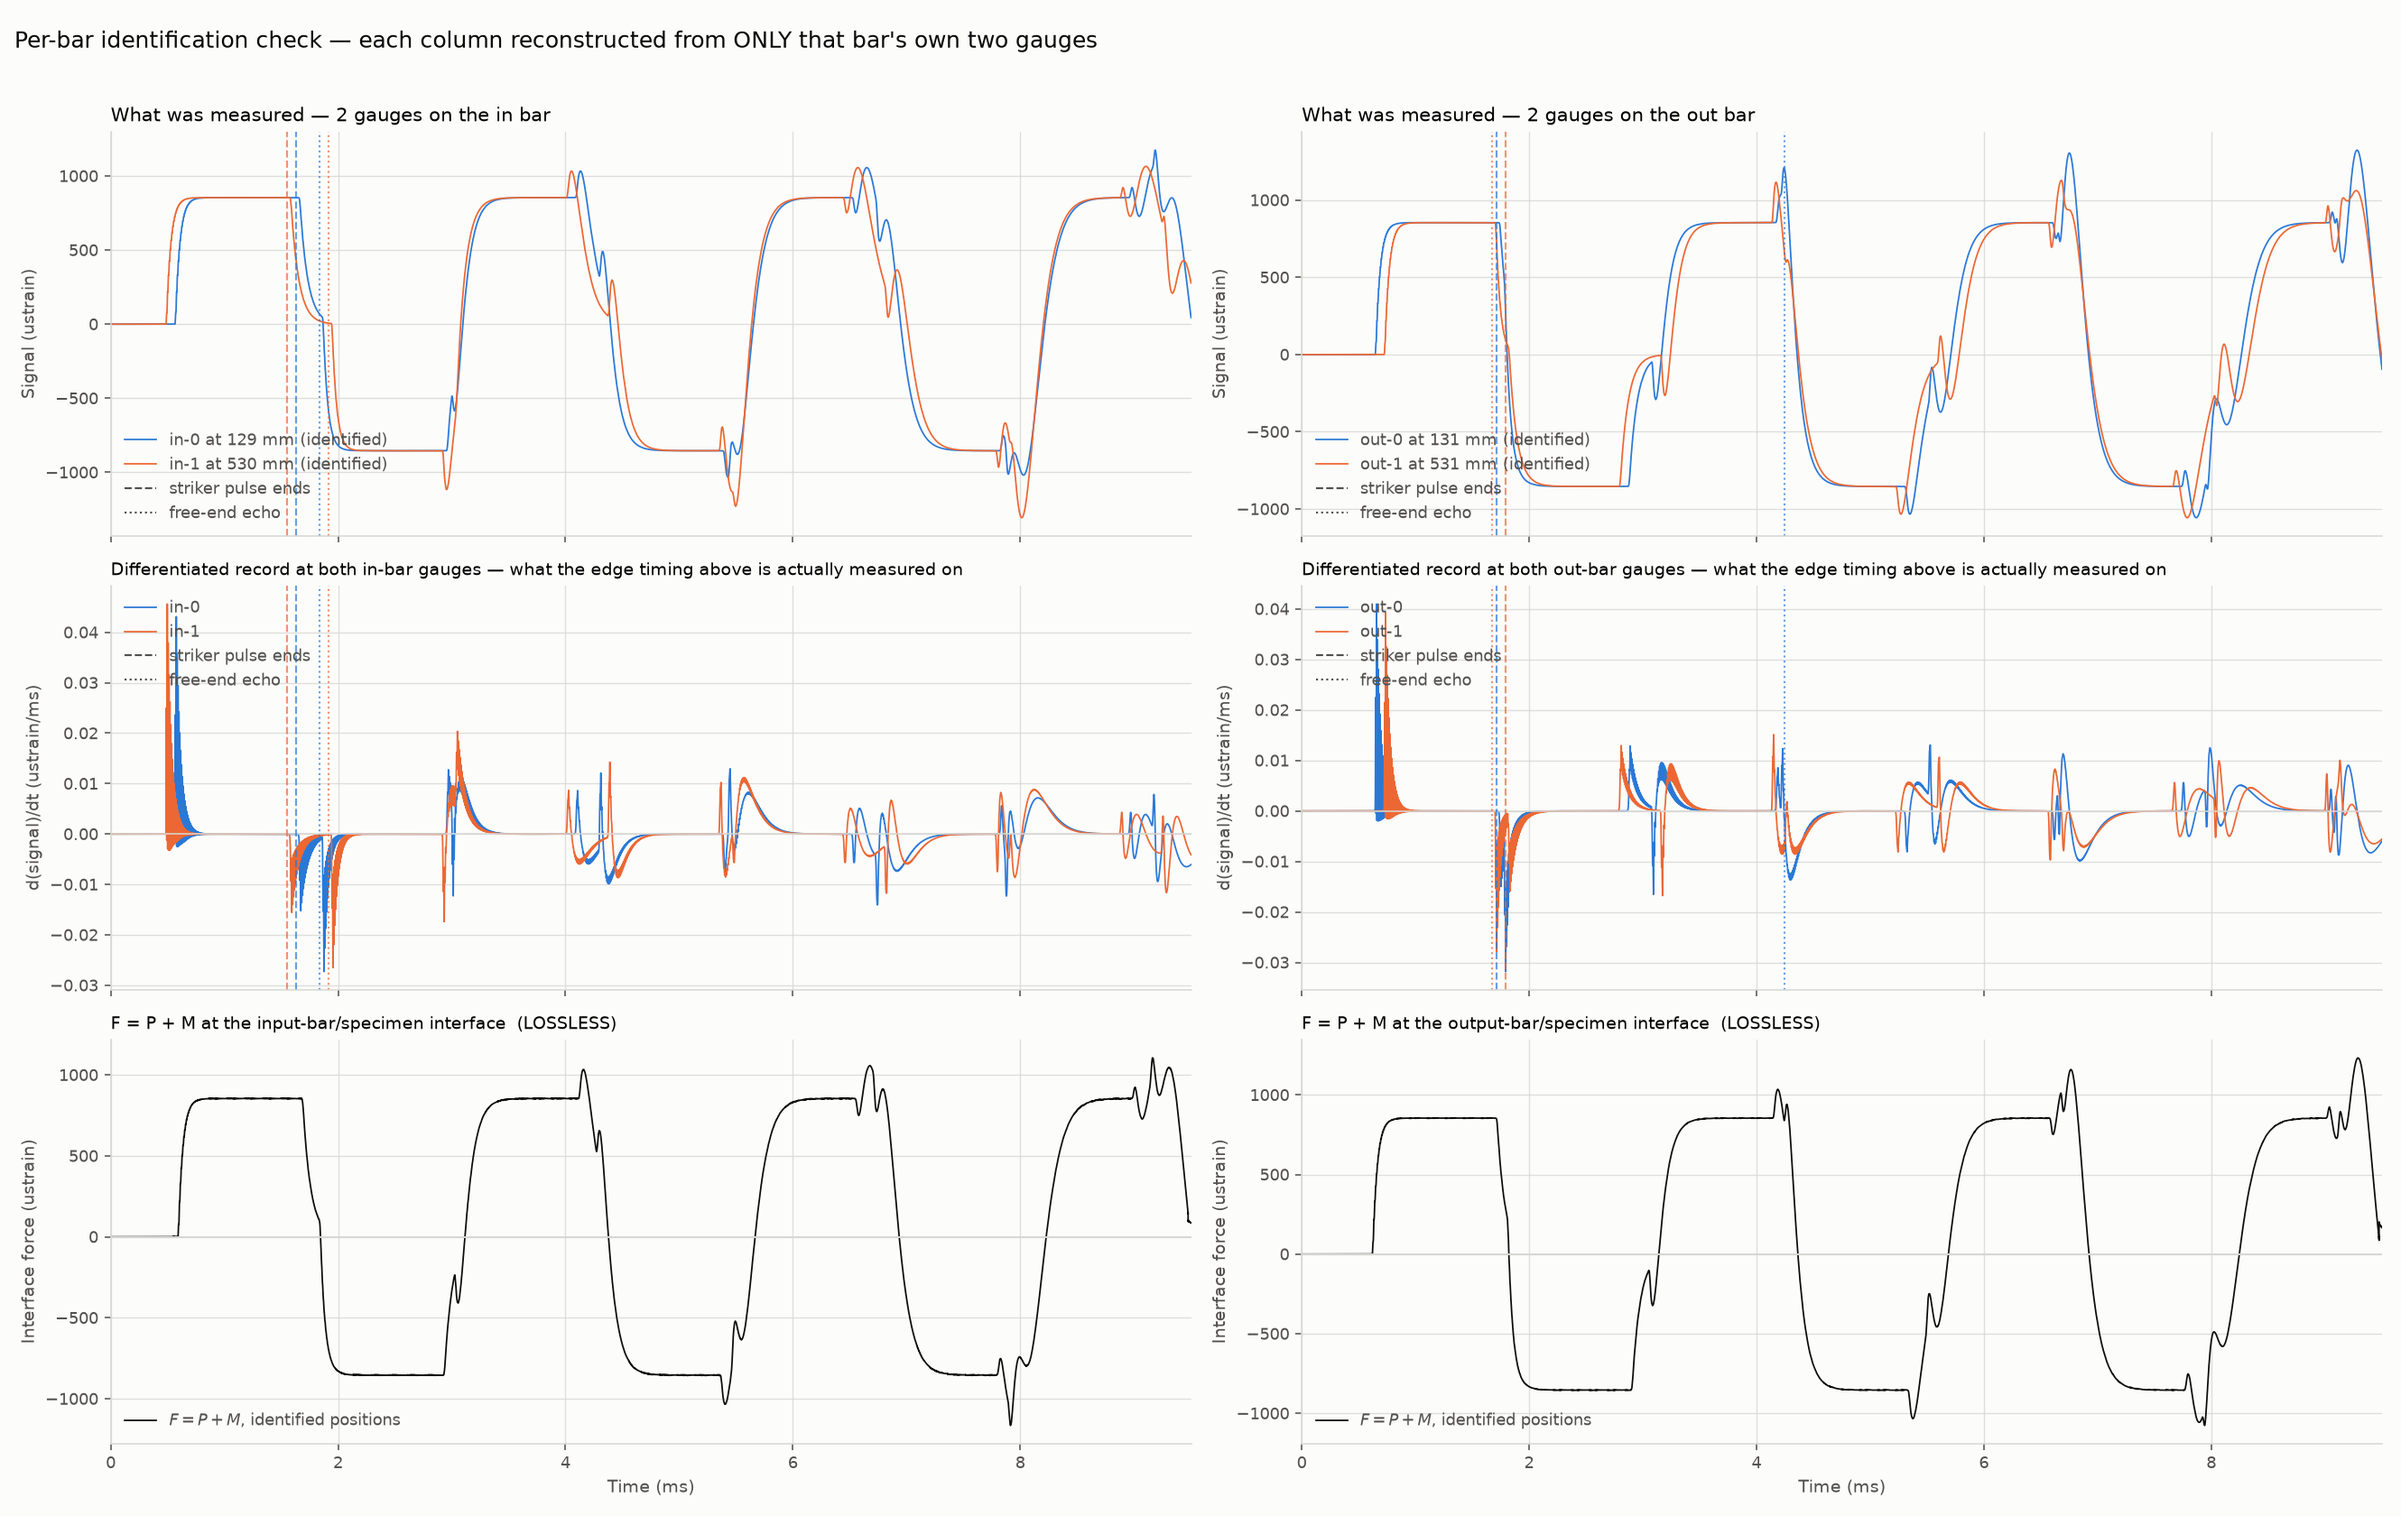
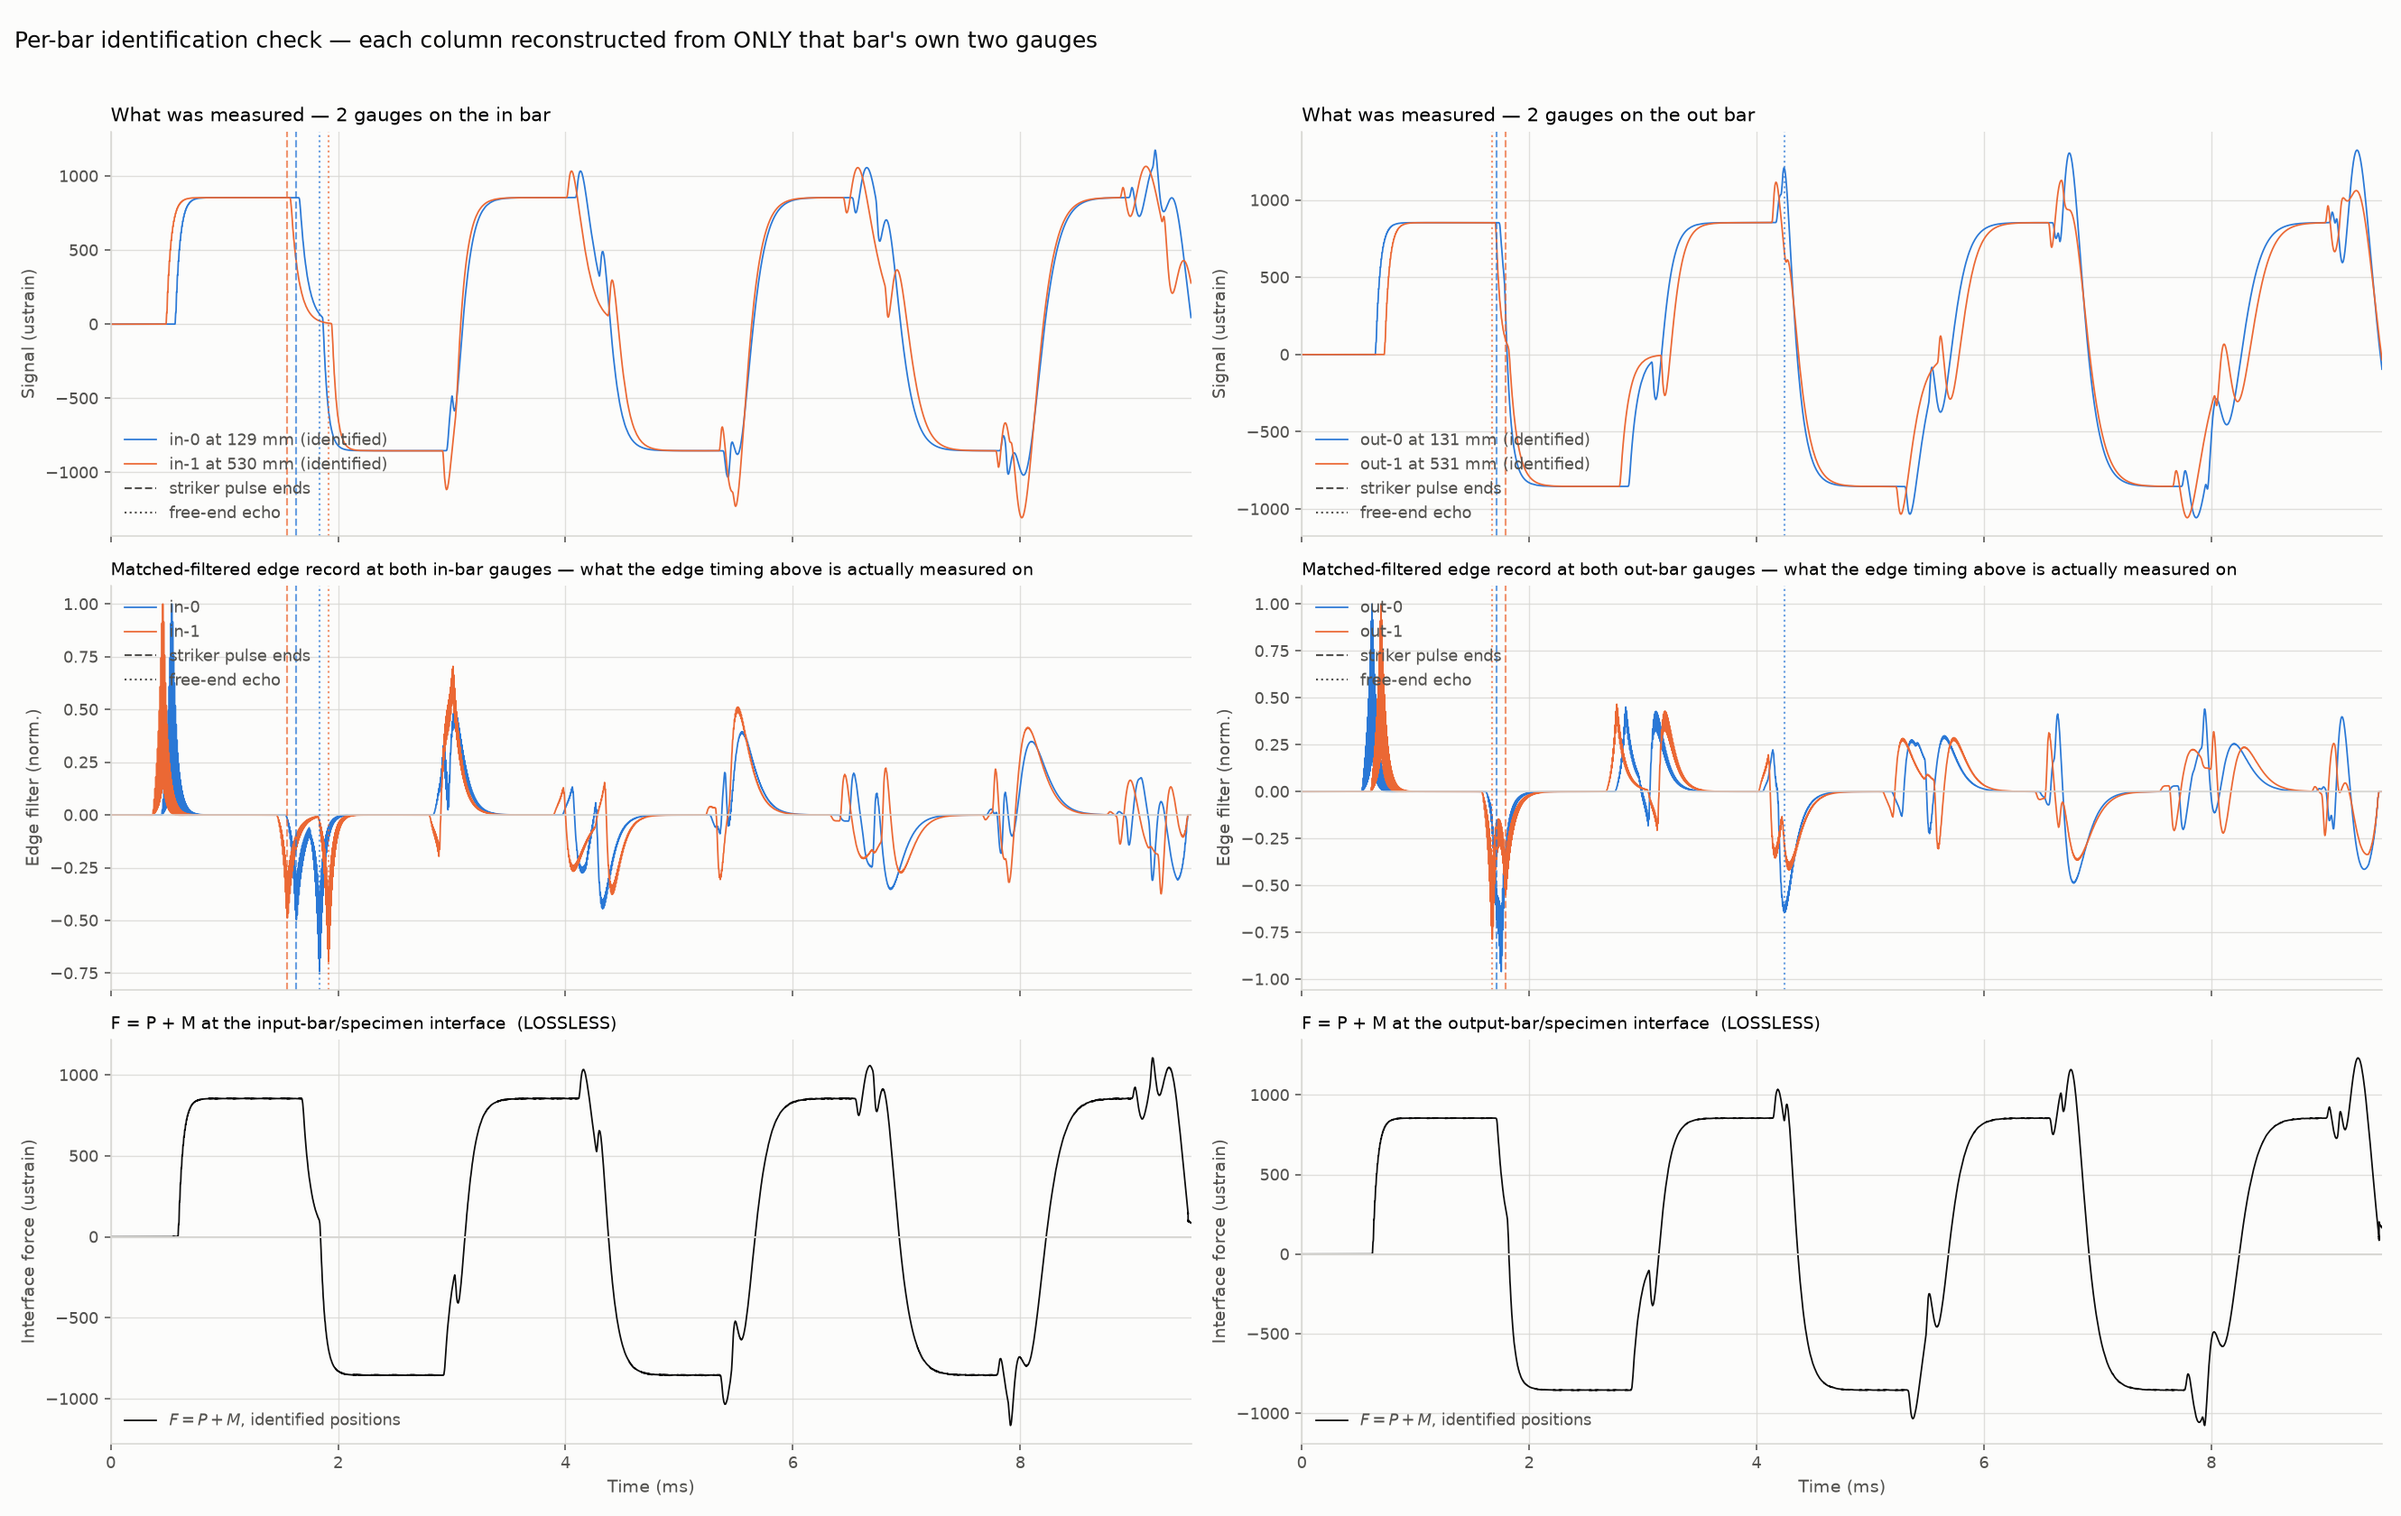
3wave: restore matched-filtering on identify_bar_tension.py's edge row
The two-gauge figure's middle row plotted the raw gradient, which is
far noisier than what the edge timing above it is actually measured
on: grads[k] cross-correlated against TEMPLATE, the leading-edge
template cut from the reference gauge. Reinstated that filter for both
gauges per bar (the pre-reorg figure only ever showed it for the single
reference gauge), normalised per gauge to its own peak as before.

Claude-Session: https://claude.ai/code/session_015NqyhV5v2tBbb7m88cos6N

Changed region(s): [[0.0, 0.3714, 0.9985, 0.65]]

diff --git a/3wave/identify_bar_tension.py b/3wave/identify_bar_tension.py
@@ -880,15 +880,24 @@ for col, (bar, off, cnt) in enumerate(COLS):
     ax0.set_title(f'What was measured — {cnt} gauges on the {bar} bar',
                   loc='left', fontsize=11)
 
+    # Matched-filtered, not raw: the differentiated record is edge-timed by
+    # cross-correlating it against TEMPLATE (the leading edge cut from the
+    # reference gauge, above), and that correlation is what suppresses the
+    # sample-to-sample noise a raw gradient is full of. Same filter each
+    # arrival/echo search above already runs, just shown rather than only
+    # used, and normalised per gauge to its own peak like the original
+    # single-gauge version of this panel was.
     ax1 = axes[1, col]
     for j in range(cnt):
-        ax1.plot(t_null, bgrad[j], lw=.9, color=(BLUE, ORANGE)[j % 2],
+        xc = _xcorr(bgrad[j], TEMPLATE)
+        xc = xc / np.abs(xc).max()
+        ax1.plot(t_null, xc, lw=.9, color=(BLUE, ORANGE)[j % 2],
                  label=f'{names[off + j]}')
     ax1.axhline(0, color=GRID, lw=.8)
-    ax1.set_ylabel(f'd(signal)/dt ({USYM}/ms)')
-    ax1.set_title(f'Differentiated record at both {bar}-bar gauges — what the '
-                  'edge timing above is actually measured on', loc='left',
-                  fontsize=10)
+    ax1.set_ylabel('Edge filter (norm.)')
+    ax1.set_title(f'Matched-filtered edge record at both {bar}-bar gauges — '
+                  'what the edge timing above is actually measured on',
+                  loc='left', fontsize=10)
 
     # Vertical markers, on BOTH the raw and differentiated rows: the end of
     # the striker pulse (arrival + P) and the free-end echo (arrival + tau),
